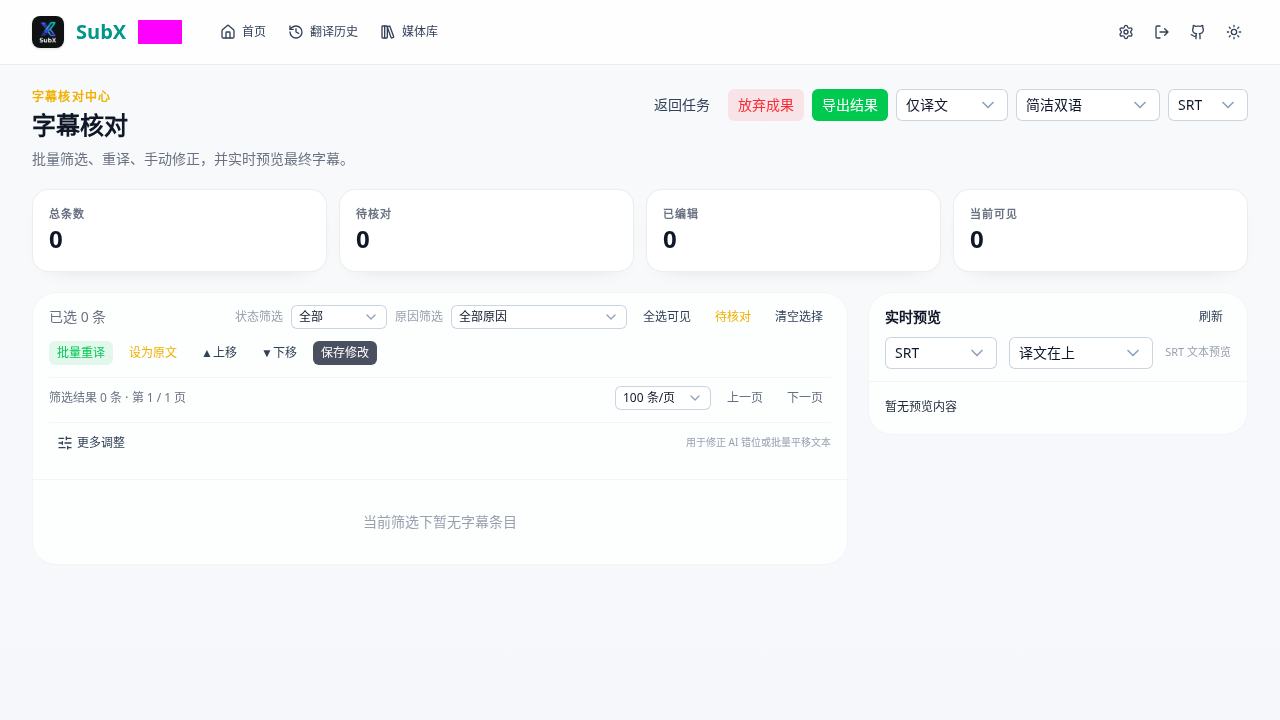
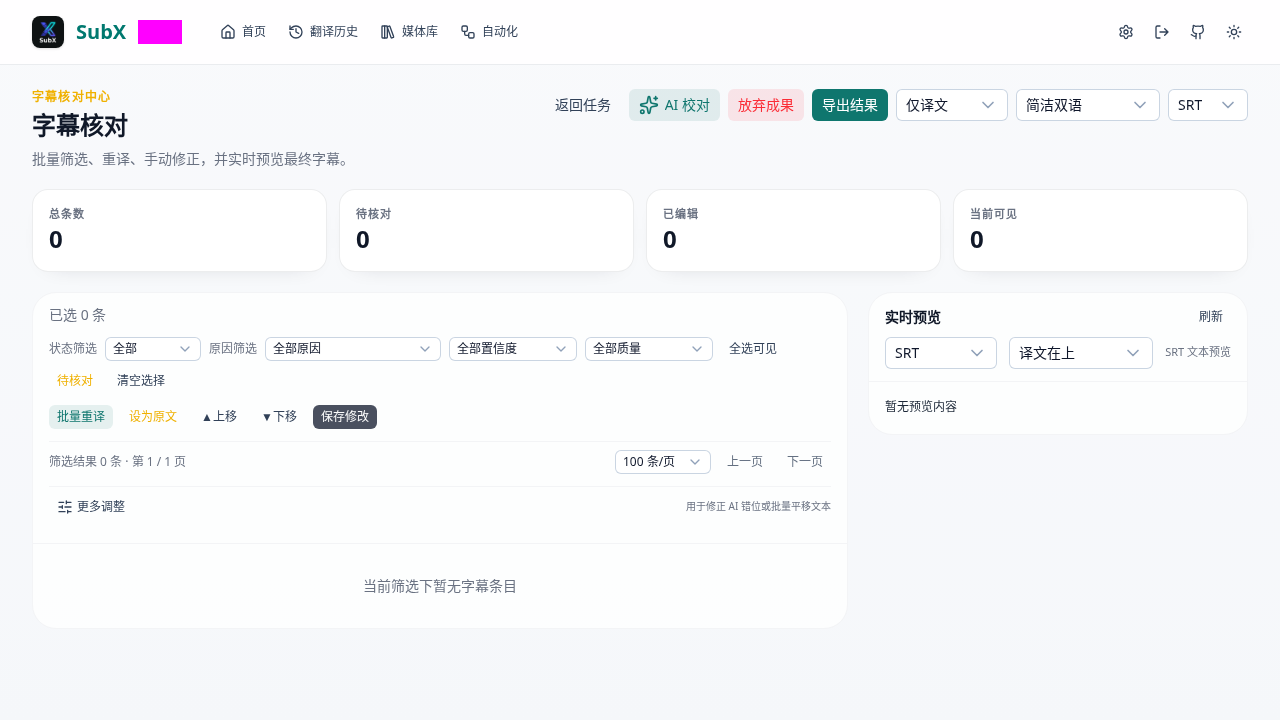
SubX v2.6.2

diff --git a/app/components/FileBrowser.vue b/app/components/FileBrowser.vue
@@ -105,7 +105,7 @@
         </div>
 
         <div class="flex-1 min-h-0 flex flex-col">
-          <div class="h-[260px] min-h-[180px] overflow-hidden rounded-2xl border border-gray-200/80 bg-gray-50/50 p-3 ring-1 ring-inset ring-white/35 dark:border-gray-700/80 dark:bg-gray-900/40 dark:ring-white/10 lg:h-[var(--right-top-height)]" :style="{ '--right-top-height': `${rightTopHeight}%` }">
+          <div class="flex h-[260px] min-h-[180px] flex-col overflow-hidden rounded-2xl border border-gray-200/80 bg-gray-50/50 p-3 ring-1 ring-inset ring-white/35 dark:border-gray-700/80 dark:bg-gray-900/40 dark:ring-white/10 lg:h-[var(--right-top-height)]" :style="{ '--right-top-height': `${rightTopHeight}%` }">
             <div v-if="isSubtitleFile" class="h-full flex flex-col min-h-0">
               <div v-if="pendingSubtitle" class="flex flex-col items-center justify-center flex-1">
                 <UIcon name="i-lucide-loader-2" class="w-6 h-6 animate-spin text-sky-500 mb-2" />
@@ -133,7 +133,7 @@
               <p class="text-xs text-neutral-500">正在分析视频轨道...</p>
             </div>
 
-            <div v-else-if="tracks.length" class="h-full min-h-0 flex flex-col space-y-2">
+            <div v-else-if="tracks.length" class="flex min-h-0 flex-1 flex-col space-y-2">
               <div class="flex items-center justify-between text-[11px] text-gray-500 dark:text-gray-400">
                 <span>可处理轨道 {{ tracks.filter((t: any) => t.isSupported || (appConfig?.ocrEnabled && isBitmapCodec(t.codec))).length }} / {{ tracks.length }}</span>
                 <span v-if="selectedTrackIndex !== null && !useAsr">当前选择 #{{ selectedTrackIndex }}</span>
@@ -144,16 +144,17 @@
               </div>
             </div>
 
-            <div v-else-if="!useAsr" class="flex flex-col items-center justify-center h-full text-neutral-400 text-xs">
-              {{ audioTracks.length ? '未发现文本字幕，可使用语音识别' : '未发现可处理的文本字幕或音频轨道' }}
+            <div v-else class="flex min-h-0 flex-1 flex-col items-center justify-center text-neutral-400 text-xs">
+              <template v-if="useAsr">已启用语音识别，将从所选音频轨道生成字幕</template>
+              <template v-else>{{ audioTracks.length ? '未发现文本字幕，可使用语音识别' : '未发现可处理的文本字幕或音频轨道' }}</template>
             </div>
 
-            <div v-if="!isSubtitleFile && bitmapTracks.length && !appConfig?.ocrEnabled && !hasSupportedSubtitle" class="mt-3 rounded-xl border border-amber-100 bg-amber-50/70 p-3 dark:border-amber-900/40 dark:bg-amber-950/20">
+            <div v-if="!isSubtitleFile && bitmapTracks.length && !appConfig?.ocrEnabled && !hasSupportedSubtitle" class="mt-3 shrink-0 rounded-xl border border-amber-100 bg-amber-50/70 p-3 dark:border-amber-900/40 dark:bg-amber-950/20">
               <p class="text-xs font-semibold text-amber-800 dark:text-amber-200">发现图像字幕</p>
               <p class="mt-1 text-[11px] text-amber-700 dark:text-amber-300">PGS / VobSub / DVD 需要先在设置中启用「图像字幕 OCR」；单镜像已内置 OCR 服务。</p>
             </div>
 
-            <div v-if="!isSubtitleFile && audioTracks.length" class="mt-3 rounded-xl border border-primary-100 bg-primary-50/60 p-3 dark:border-primary-900/40 dark:bg-primary-500/5">
+            <div v-if="!isSubtitleFile && audioTracks.length" class="mt-3 shrink-0 rounded-xl border border-primary-100 bg-primary-50/60 p-3 dark:border-primary-900/40 dark:bg-primary-500/5">
               <div class="mb-2 flex items-center justify-between gap-2">
                 <div>
                   <div class="flex flex-wrap items-center gap-1.5">
@@ -163,10 +164,11 @@
                   </div>
                   <p class="text-[11px] text-primary-700/80 dark:text-primary-300/80">{{ asrHint }}</p>
                   <p v-if="!appConfig?.asrEnabled" class="mt-1 text-[11px] text-amber-600 dark:text-amber-400">请先在设置中启用语音识别。</p>
+                  <p v-else-if="!useAsr && !hasSupportedSubtitle && !bitmapTracks.length" class="mt-1 text-[11px] text-amber-600 dark:text-amber-400">当前视频没有可用的文本/图像字幕轨；关闭语音识别后无法创建任务。</p>
                 </div>
                 <USwitch v-model="useAsr" :disabled="!audioTracks.length || !appConfig?.asrEnabled" aria-label="使用语音识别" />
               </div>
-              <URadioGroup v-if="useAsr" v-model="selectedAudioTrackIndex" :items="audioTrackOptions" />
+              <URadioGroup v-if="useAsr" v-model="selectedAudioTrackIndex" :items="audioTrackOptions" class="max-h-40 overflow-y-auto custom-scrollbar" />
             </div>
           </div>
 
@@ -237,8 +239,8 @@
 
             <div class="mt-2 px-2.5 py-2.5 border border-gray-200/85 dark:border-gray-800/80 bg-white/92 dark:bg-gray-900/84 backdrop-blur supports-[backdrop-filter]:bg-white/80 supports-[backdrop-filter]:dark:bg-gray-900/68 rounded-xl shadow-[0_8px_20px_-18px_rgba(15,23,42,0.24)] shrink-0">
               <div class="flex gap-2.5">
-                <UButton :label="launching ? '正在加入队列...' : '加入队列'" color="neutral" variant="soft" size="sm" class="flex-1 justify-center" icon="i-lucide-list-plus" :loading="launching" @click="startTask(true)" />
-                <UButton :label="launching ? '正在创建任务...' : (options.outputMode === 'original' ? '导出字幕' : '开始翻译')" color="primary" size="sm" class="flex-1 justify-center" icon="i-lucide-sparkles" :loading="launching" @click="startTask(false)" />
+                <UButton :label="launching ? '正在加入队列...' : '加入队列'" color="neutral" variant="soft" size="sm" class="flex-1 justify-center" icon="i-lucide-list-plus" :loading="launching" :disabled="!canStartTask" @click="startTask(true)" />
+                <UButton :label="launching ? '正在创建任务...' : (options.outputMode === 'original' ? '导出字幕' : '开始翻译')" color="primary" size="sm" class="flex-1 justify-center" icon="i-lucide-sparkles" :loading="launching" :disabled="!canStartTask" @click="startTask(false)" />
               </div>
             </div>
           </div>
@@ -623,6 +625,20 @@ watch(() => options.value.outputMode, (mode) => {
   options.value.subtitleStylePreset = mode === 'bilingual' ? 'bilingual_simple' : 'mono_clean'
 })
 
+watch(useAsr, (enabled) => {
+  if (enabled) {
+    if (selectedAudioTrackIndex.value !== null) return
+    const firstAudio = audioTracks.value.find((track: any) => track.isDefault) || audioTracks.value[0]
+    selectedAudioTrackIndex.value = firstAudio ? firstAudio.index : null
+    return
+  }
+
+  if (isSubtitleFile.value || selectedTrackIndex.value !== null) return
+  const fallback = tracks.value.find((track: any) => track.isSupported)
+    || tracks.value.find((track: any) => isBitmapCodec(track.codec) && appConfig.value?.ocrEnabled)
+  selectedTrackIndex.value = fallback ? fallback.index : null
+})
+
 const currentStyle = computed(() => allStylePresets.value.find(s => s.id === options.value.stylePreset))
 const supportedTracks = computed(() => tracks.value.filter((t: any) => t.isSupported))
 const hasSupportedSubtitle = computed(() => supportedTracks.value.length > 0)
@@ -654,6 +670,15 @@ const audioTrackOptions = computed(() => audioTracks.value.map((t: any) => ({
   label: `音频 #${t.index} (${t.codec}) - ${t.language || 'und'}${t.channels ? ` · ${t.channels}ch` : ''}${t.title ? ` [${t.title}]` : ''}`,
   value: t.index
 })))
+
+const canStartTask = computed(() => {
+  if (!selectedFile.value) return false
+  if (isSubtitleFile.value) return true
+  if (useAsr.value) return selectedAudioTrackIndex.value !== null && Boolean(appConfig.value?.asrEnabled)
+  const track = tracks.value.find((item: any) => item.index === selectedTrackIndex.value)
+  if (!track) return false
+  return Boolean(track.isSupported || (isBitmapCodec(track.codec) && appConfig.value?.ocrEnabled))
+})
 
 const isSubtitleFile = computed(() => {
   if (!selectedFile.value) return false

diff --git a/tests/e2e/visual.spec.ts b/tests/e2e/visual.spec.ts
@@ -173,6 +173,60 @@ test('subtitled video can be forced to ASR', async ({ page }) => {
   await expect(asrSwitch).toBeEnabled()
   await asrSwitch.click()
   await expect(page.getByText('已启用：将从所选音频轨道重新生成字幕')).toBeVisible()
+
+  await asrSwitch.click()
+  await expect(asrSwitch).not.toBeChecked()
+  await expect(page.getByText('语音识别', { exact: true })).toBeVisible()
+  await expect(page.getByText('已有文本字幕。想重新听写')).toBeVisible()
+
+  await asrSwitch.click()
+  await expect(asrSwitch).toBeChecked()
+  await page.getByRole('button', { name: '开始翻译' }).click()
+
+  await expect.poll(() => taskBody?.sourceType, { timeout: 5000 }).toBe('asr')
+  expect(taskBody.trackIndex).toBe(2)
+})
+
+test('ASR card stays visible when toggled off without subtitle tracks', async ({ page }) => {
+  await page.request.put('/api/config', { data: { asrEnabled: true } })
+  await page.route('**/api/tracks**', route => route.fulfill({
+    json: {
+      tracks: [],
+      audioTracks: [{ index: 2, codec: 'aac', language: 'jpn', title: 'Japanese', channels: 2, isDefault: true }],
+      duration: 120
+    }
+  }))
+  let taskBody: any = null
+  await page.route('**/api/task', async route => {
+    taskBody = route.request().postDataJSON()
+    await route.fulfill({ json: { taskId: 'asr-toggle-test', taskIds: ['asr-toggle-test'] } })
+  })
+
+  await page.goto('/')
+  const tree = page.getByRole('tree', { name: '文件目录树' })
+  await tree.getByText('Shows', { exact: true }).click()
+  await tree.getByText('Demo Show', { exact: true }).click()
+  await tree.getByText('Demo.Show.S01E02.mkv', { exact: true }).click()
+
+  const asrSwitch = page.getByRole('switch', { name: '使用语音识别' })
+  await expect(asrSwitch).toBeChecked()
+  await expect(page.getByText('已启用语音识别，将从所选音频轨道生成字幕')).toBeVisible()
+
+  await asrSwitch.click()
+  await expect(asrSwitch).not.toBeChecked()
+  await expect(page.getByText('语音识别', { exact: true })).toBeVisible()
+  await expect(page.getByText('未发现文本字幕，可使用语音识别')).toBeVisible()
+  await expect(page.getByText('当前视频没有可用的文本/图像字幕轨；关闭语音识别后无法创建任务。')).toBeVisible()
+  await expect(page.getByText('字幕轨道：')).toBeVisible()
+  await page.evaluate(() => window.scrollTo(0, 0))
+  await page.waitForTimeout(300)
+  await expect(page).toHaveScreenshot('asr-source.png', {
+    fullPage: false,
+    mask: [page.locator('header .version-badge')]
+  })
+
+  await asrSwitch.click()
+  await expect(page.getByText('已启用语音识别，将从所选音频轨道生成字幕')).toBeVisible()
   await page.getByRole('button', { name: '开始翻译' }).click()
 
   await expect.poll(() => taskBody?.sourceType, { timeout: 5000 }).toBe('asr')

diff --git a/server/api/openapi.get.ts b/server/api/openapi.get.ts
@@ -13,7 +13,7 @@ export default defineEventHandler(() => {
     openapi: '3.1.0',
     info: {
       title: 'SubX API',
-      version: '2.6.1',
+      version: '2.6.2',
       description: 'SubX 任务、目录监控、通知与 API Token 接口。使用 Authorization: Bearer <token> 或 X-API-Token。'
     },
     servers: [{ url: '/' }],

diff --git a/TODO.md b/TODO.md
@@ -2,8 +2,8 @@
 
 > 配套文档：`docs/asr-automation-plan.md`、`docs/PROJECT_HANDOVER.md`
 > 本文保留细粒度开发清单；当前状态和路线图以技术交接文档为准。
-> 当前基线：v2.6.1
-> 当前进度：v2.6.1 登录帮助、口令统一、Telegram 代理和 ASR 连接可靠性修复
+> 当前基线：v2.6.2
+> 当前进度：v2.6.2 ASR 长任务进度、音频缓存与首页语音识别开关修复
 
 ## v1.4.0 手动 ASR MVP
 
@@ -221,6 +221,14 @@
 - [x] 外部集成去重
 - [x] sidecar 可选鉴权
 - [x] API Token scope 与 OpenAPI 补齐
+
+## v2.6.2 ASR 进度与首页交互
+
+- [x] ASR 任务式接口、阶段进度和 60 分钟超时。
+- [x] ASR 音频缓存与失败重试复用。
+- [x] 首页关闭语音识别后保留卡片和轨道选择。
+- [x] 无可用字幕源时禁用开始按钮并提示原因。
+- [x] README、部署文档、预览图和版本号同步到 v2.6.2。
 
 ## v2.6.1 登录、通知与 ASR 可靠性
 

diff --git a/CHANGELOG.md b/CHANGELOG.md
@@ -1,6 +1,6 @@
 # Changelog
 
-## Unreleased
+## v2.6.2 - 2026-11-02
 
 ### Added
 
@@ -13,6 +13,9 @@
 - ASR 请求使用放宽到 60 分钟的 undici 超时，修复长音频转写被 Node 默认 300 秒 `UND_ERR_HEADERS_TIMEOUT` 中断的问题。
 - ASR 服务把模型推理移出事件循环，并改为后台线程执行，识别期间 `/health` 和模型状态查询不再被阻塞。
 - 任务失败后保留音频缓存；成功任务按“保留音频”设置决定是否清理，缓存默认保留 14 天。
+- 修复首页关闭「语音识别」开关后卡片被固定高度预览区裁切消失的问题；视频、字幕轨和音频轨选择会保留。
+- 没有可用文本/图像字幕源时禁用「加入队列」「开始翻译」按钮，并提示关闭 ASR 后无法创建任务。
+- 更新 README、部署文档、ASR README 和界面预览图，补充音频缓存位置与保留策略。
 
 ## v2.6.1 - 2026-11-01
 

diff --git a/docs/testing-guide.md b/docs/testing-guide.md
@@ -1,6 +1,6 @@
 # SubX 实测指南
 
-> 目标：用真实 NAS、真实媒体和单镜像/可选 sidecar 验证 v2.6.1，不只看构建是否通过。
+> 目标：用真实 NAS、真实媒体和单镜像/可选 sidecar 验证 v2.6.2，不只看构建是否通过。
 
 ## 1. 测试前准备
 
@@ -168,7 +168,7 @@ OCR 耗时：
 ## 7. 反馈模板
 
 ```text
-版本：v2.6.1
+版本：v2.6.2
 镜像：subx（含内置 ASR/OCR）/ 可选 subx-asr / subx-ocr
 设备：
 部署方式：Docker Compose（默认单镜像 / 可选 profile）

diff --git a/docs/postgresql-evaluation.md b/docs/postgresql-evaluation.md
@@ -1,7 +1,7 @@
 # PostgreSQL 迁移评估
 
-> 适用版本：v2.6.1
-> 结论：v2.6.1 已支持可选 PostgreSQL 运行时；未设置 `DATABASE_URL` 时继续使用 SQLite。
+> 适用版本：v2.6.2
+> 结论：v2.6.2 已支持可选 PostgreSQL 运行时；未设置 `DATABASE_URL` 时继续使用 SQLite。
 
 ## 当前架构
 

diff --git a/docs/asr-benchmark.md b/docs/asr-benchmark.md
@@ -1,6 +1,6 @@
 # SubX ASR 11 语言基准
 
-> 适用版本：v2.6.1
+> 适用版本：v2.6.2
 > 目的：用统一脚本记录各硬件、引擎、模型的 RTF、平均置信度和可用性。
 
 ## 样本要求
